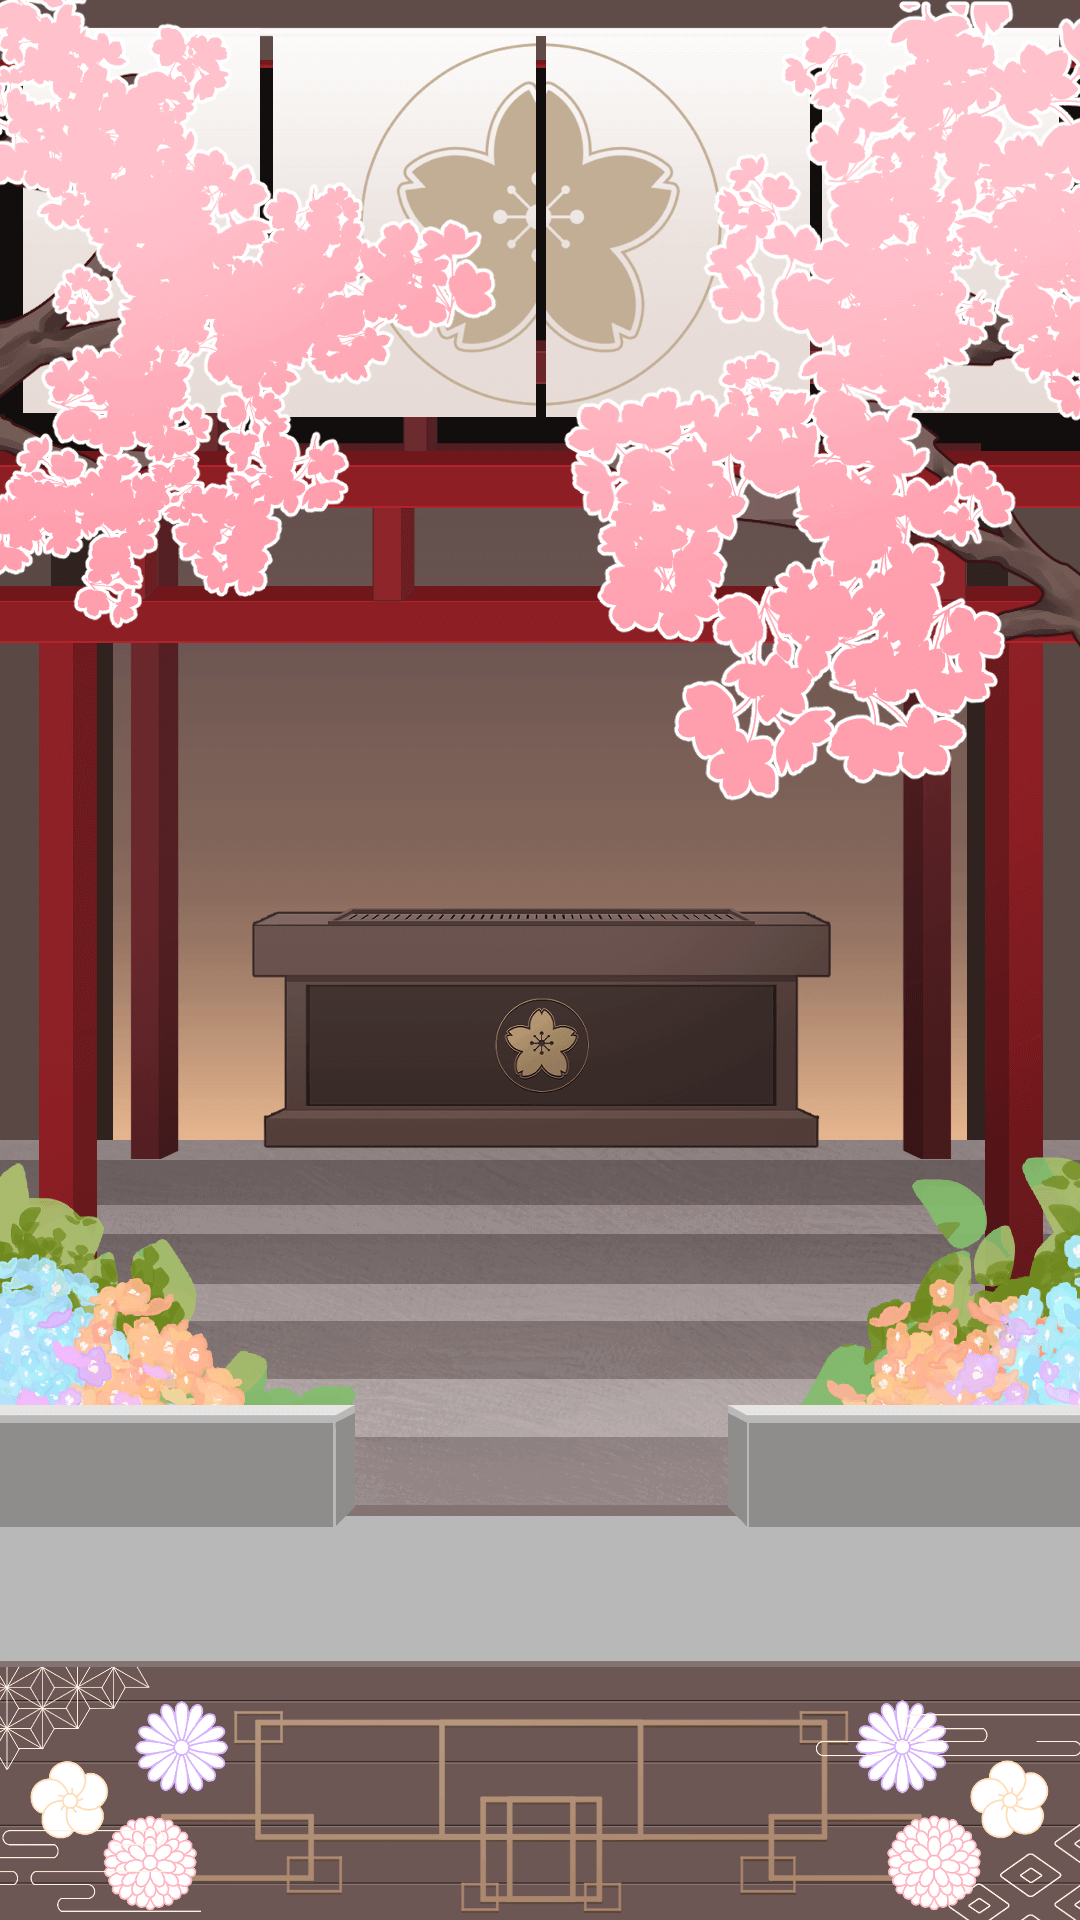
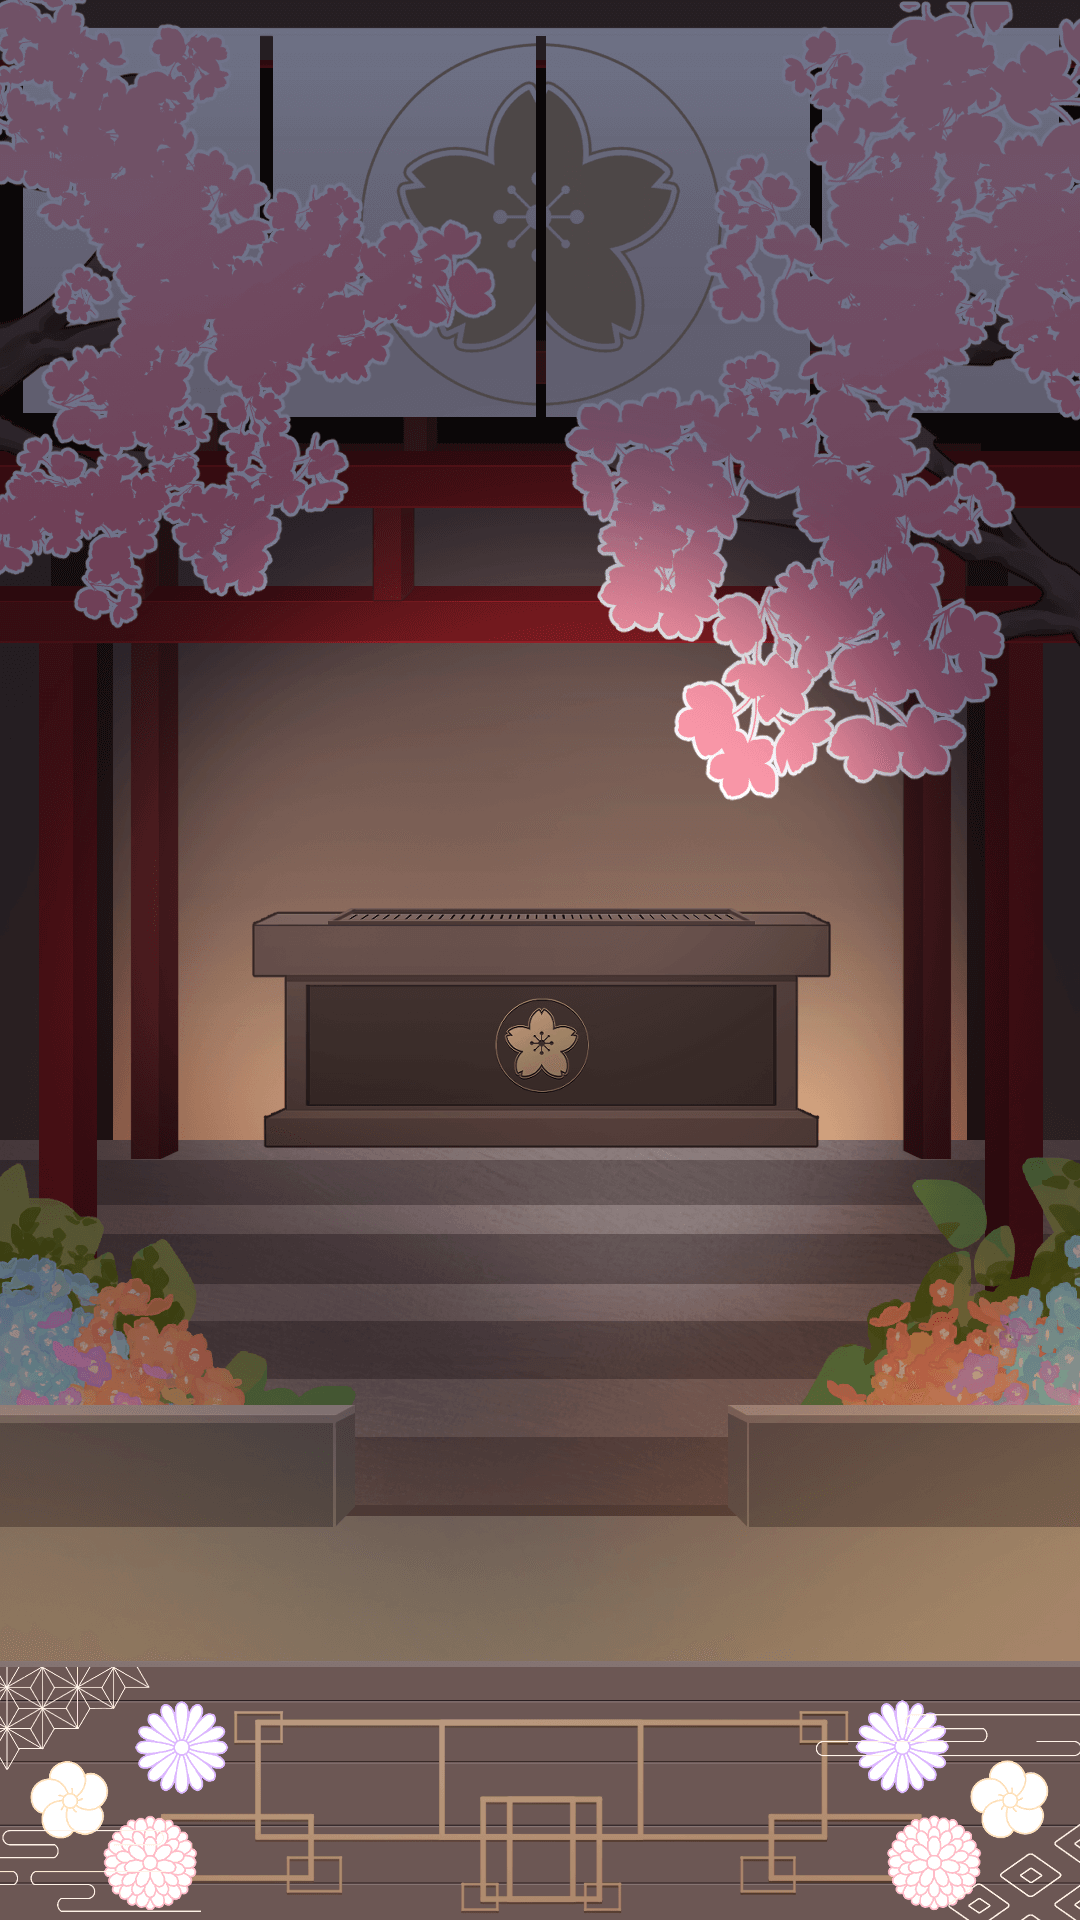
新增日夜交替功能

diff --git a/script.js b/script.js
@@ -507,3 +507,20 @@ saveBtn.addEventListener("click", () => {
 closeModal.addEventListener("click", () => {
   resultModal.style.display = "none";
 });
+
+
+function updateDayNightMode() {
+  const hour = new Date().getHours();
+
+  if (hour >= 18 || hour < 6) {
+    document.body.classList.add("night-mode");
+  } else {
+    document.body.classList.remove("night-mode");
+  }
+}
+
+// 進站時先判斷一次
+updateDayNightMode();
+
+// 每 5 分鐘檢查一次時間（避免剛好跨 6 點沒刷新）
+setInterval(updateDayNightMode, 5 * 60 * 1000);

diff --git a/index.html b/index.html
@@ -54,8 +54,10 @@
 
 
   <img src="images/bg.jpg" class="bg" crossorigin="anonymous">
+  <img src="images/bg-night.jpg" class="bg night" crossorigin="anonymous">
 <img src="images/shrine.png" class="shrine" crossorigin="anonymous">
 <img src="images/characters.png" class="characters" crossorigin="anonymous">
+<img src="images/characters-night.png" class="characters night" crossorigin="anonymous">
 <!-- 櫻花粒子層 -->
 <canvas id="sakura"></canvas>
 

diff --git a/style.css b/style.css
@@ -335,3 +335,15 @@ body, html {
   right: 20px;
   width: 120px;
 }
+
+/* 夜晚圖預設隱藏 */
+.night {
+  opacity: 0;
+  transition: opacity 1.5s ease-in-out;
+  pointer-events: none;
+}
+
+/* 當進入夜晚時顯示 */
+body.night-mode .night {
+  opacity: 1;
+}
